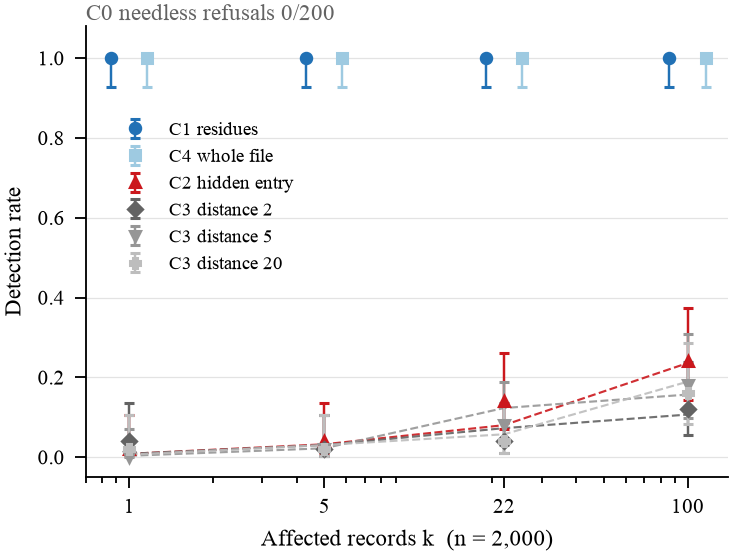
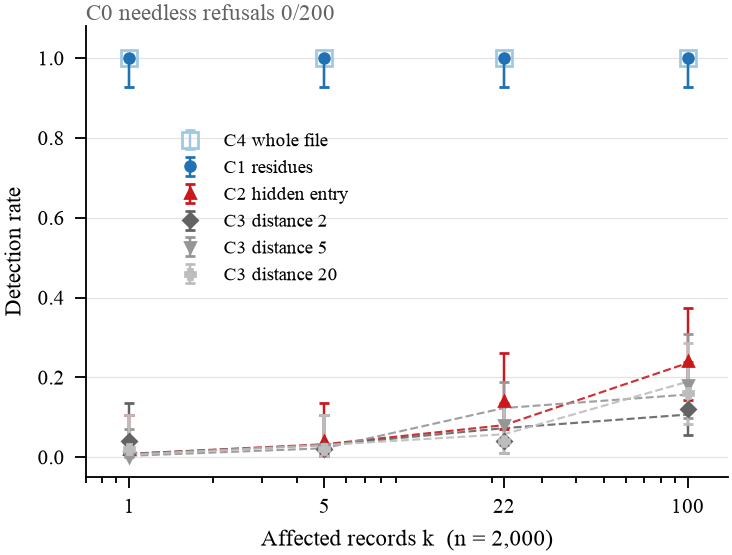
Record that a warm cache lets the audit catch a pad miss.
The 1,400-trial rates are unchanged. A two-pass diagnostic shows the cold exact path ships a differing replay, and the next run on the same cache refuses it in the audit.

diff --git a/pipeline/paper/tare/figures/make_adversarial.py b/pipeline/paper/tare/figures/make_adversarial.py
@@ -87,9 +87,16 @@ def main() -> None:
                 eq.append(cell["eq4_detection"])
             else:
                 eq.append(None)
+        # C1 and C4 are both detection 1. An open square behind the
+        # circle keeps both markers on the true k.
+        open_square = label.startswith("C4")
         ax.errorbar(
-            xs, ys, yerr=[lo, hi], fmt=marker, color=color, ms=3.4,
-            lw=0.8, capsize=1.6, label=label, zorder=3,
+            xs, ys, yerr=[lo, hi], fmt=marker, color=color,
+            ms=5.4 if open_square else 3.2,
+            lw=0.8, capsize=1.6, label=label,
+            markerfacecolor="none" if open_square else color,
+            markeredgewidth=0.9,
+            zorder=2 if open_square else 4,
         )
         if show_eq and any(value is not None for value in eq):
             ax.plot(
@@ -114,7 +121,7 @@ def main() -> None:
     ax.set_xlabel("Affected records k  (n = 2,000)")
     ax.set_ylabel("Detection rate")
     ax.grid(axis="y")
-    ax.legend(frameon=False, loc="center left", bbox_to_anchor=(0.22, 0.58))
+    ax.legend(frameon=False, loc="upper left", bbox_to_anchor=(0.12, 0.78), borderaxespad=0.0)
     fig.tight_layout(pad=0.3)
     fig.savefig(HERE / "adversarial.pdf", bbox_inches="tight", pad_inches=0.02)
     fig.savefig(HERE / "adversarial.png", dpi=220, bbox_inches="tight", pad_inches=0.02)

diff --git a/pipeline/docs/ADVERSARIAL_PROTOCOL.md b/pipeline/docs/ADVERSARIAL_PROTOCOL.md
@@ -217,3 +217,13 @@ Eq. 4 applies to C2 and C3. Its detection sits inside the cell's Wilson 95% inte
 UNSAFE is 741 trials, all in C2 and the three C3 distances. C0 is 200 correct ships and 0 needless refusals.
 
 The hmmscan arm is `pipeline/results/adversarial/confirm.json`, one trial per form, seeds 20261113–20261117, the first 24 profiles of the read-only Pfam-A file, sequences emitted from `2CompART`. It is not part of the rates. C0 shipped identical to stock. C1 and C4 refused on the neighbor pad. C2 and C3 at distance 2 refused on a random pad.
+
+## Addendum 2026-10-18 — the audit runs on the next release
+
+The null `audit` fields are the cold cache, not the residue cap. On the 941 trials that finished the pad check, `random_pads` is `3 on 50 records, residue fraction 0.025000`. It is null on the 459 trials that a pad refused before that note was stored. The residue cap did not skip the pads.
+
+`pipeline/results/adversarial/audit_gate.json` is a two-pass diagnostic on one cache. It is not part of the detection rates. Seed `20261118`, presence coupling, `k = 40`, 400 records, 500 models, pin `-Z {entry_count}`, git head `16e69a8dbf16ecb70f2862664a852874de5068ec`.
+
+The cold pass has `reused_rows` 0, `audit` null, and decision `SHIP`. Its replay is class `missing` against stock. The warm pass has `reused_rows` 800. The neighbor pad and the three random pads still pass (`ic2` is `pass`). The audit then checks 20 records, residue fraction 0.05, and the decision is `REFUSE_AUDIT` with reason `tblout: audited records differ from a full run`.
+
+The 741 UNSAFE trials are shipped output from a first exact run. A later run that reuses rows catches this coupling with the audit, after the pads have missed it. The 50-trial grid does not measure that second run.
